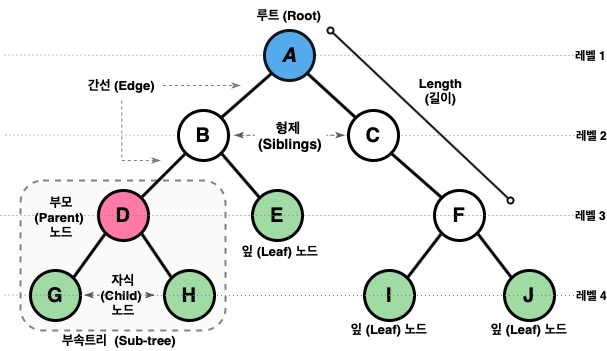
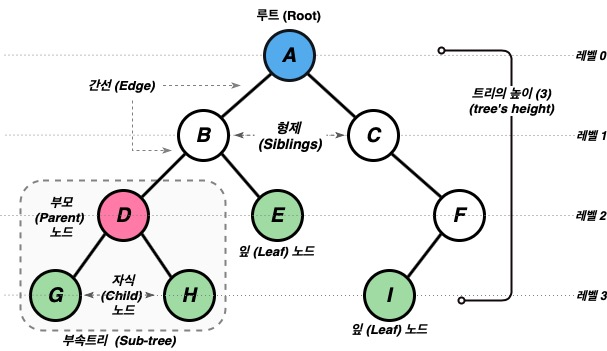
week 5 binary tree note fixed

diff --git a/_includes/posts/2021-03-28-devouring-study-week5/ko.md b/_includes/posts/2021-03-28-devouring-study-week5/ko.md
@@ -30,10 +30,15 @@
 | 잎(Leaf) 노드 | 자식 노드가 존재하지 않는 노드 |
 | 간선(Edge) | 한 노드와 다른 노드 사이의 연결선 |
 | 레벨(Levels) | 트리의 특정 깊이를 가지는 노드의 집합 |
-| 깊이(Depth) | 특정 노드에서 루트 노드까지의 간선의 개수. 루트노드의 깊이는 항상 0이다 |
-| 높이(Height) | 특정 노드에서 가장 깊숙히 있는 리프 노드까지의 간선의 개수. 리프 노드의 높이는 항상 0이다  |
+| 노드의 깊이(Depth) | 특정 노드에서 루트 노드까지의 **간선의 개수**. 루트노드의 깊이는 항상 0이다 |
+| 노드의 높이(Height) | 특정 노드에서 가장 깊숙히 있는 리프 노드까지의 **간선의 개수**. 리프 노드의 높이는 항상 0이다  |
+| 트리의 깊이(Depth) | 보통 트리의 높이(height)를 의미한다 |
+| 트리의 높이(Height)| 루트 노드의 높이 / 루트에서 리프 가장 깊숙히 이는 리프 노드까지의 **간선의 개수** |  
 
 예제와 함께 좀 더 알아보고 싶다면 [여기](https://www.gatevidyalay.com/tree-data-structure-tree-terminology/)를 참고해주세요.
+
+> ⚠ 노드의 깊이와 높이를 구할 때 임의의 두 노드 사이의 [노드의 개수]라고 하기도 하고 [간선의 개수]라고도 하는데 정확히 정의되어 있지 않습니다. 어떤 사람은 노드의 개수를 사용하고 또 
+어떤 사람은 간선의 개수를 사용해서 설명을 합니다. 그렇기 때문에 여기에서는 노드의 개수가 아닌 **간선의 개수**를 기반으로 설명하겠습니다.
 
 ## 트리의 특성
 - 임의의 두 노드간의 경로는 유일하다 (반드시 1개의 경로만을 가진다).
@@ -46,7 +51,7 @@
 
 ### 이진 트리의 성질
 
-> 루트 노드 = 레벨 0
+> 루트 노드 = 레벨 0, 높이(h) 0;
 
 1. 이진 트리의 최대 레벨이 `i`인 경우, 트리의 최대 노드의 개수는 `2^(i+1) - 1` 이다. 
 2. 리프 노드의 개수는 2개의 자식 노드를 가지고 있는 부모 노드의 개수 + 1 이다.
@@ -66,7 +71,7 @@
   + 모든 노드가 0개 또는 2개의 자식들을 가지는 이진 트리다.
 - **포화 이진 트리** (Perfect Binary Tree)
   + 완전 이진 트리 AND 전 이진 트리
-  + 노드가 정확히 `(2^h) - 1`개이다 (위 이진 트리의 성질 3번 참고).
+  + 노드가 정확히 `2^(h+1) - 1`개이다 (위 이진 트리의 성질 3번 참고).
 
 🛑 여기서 질문!
 
